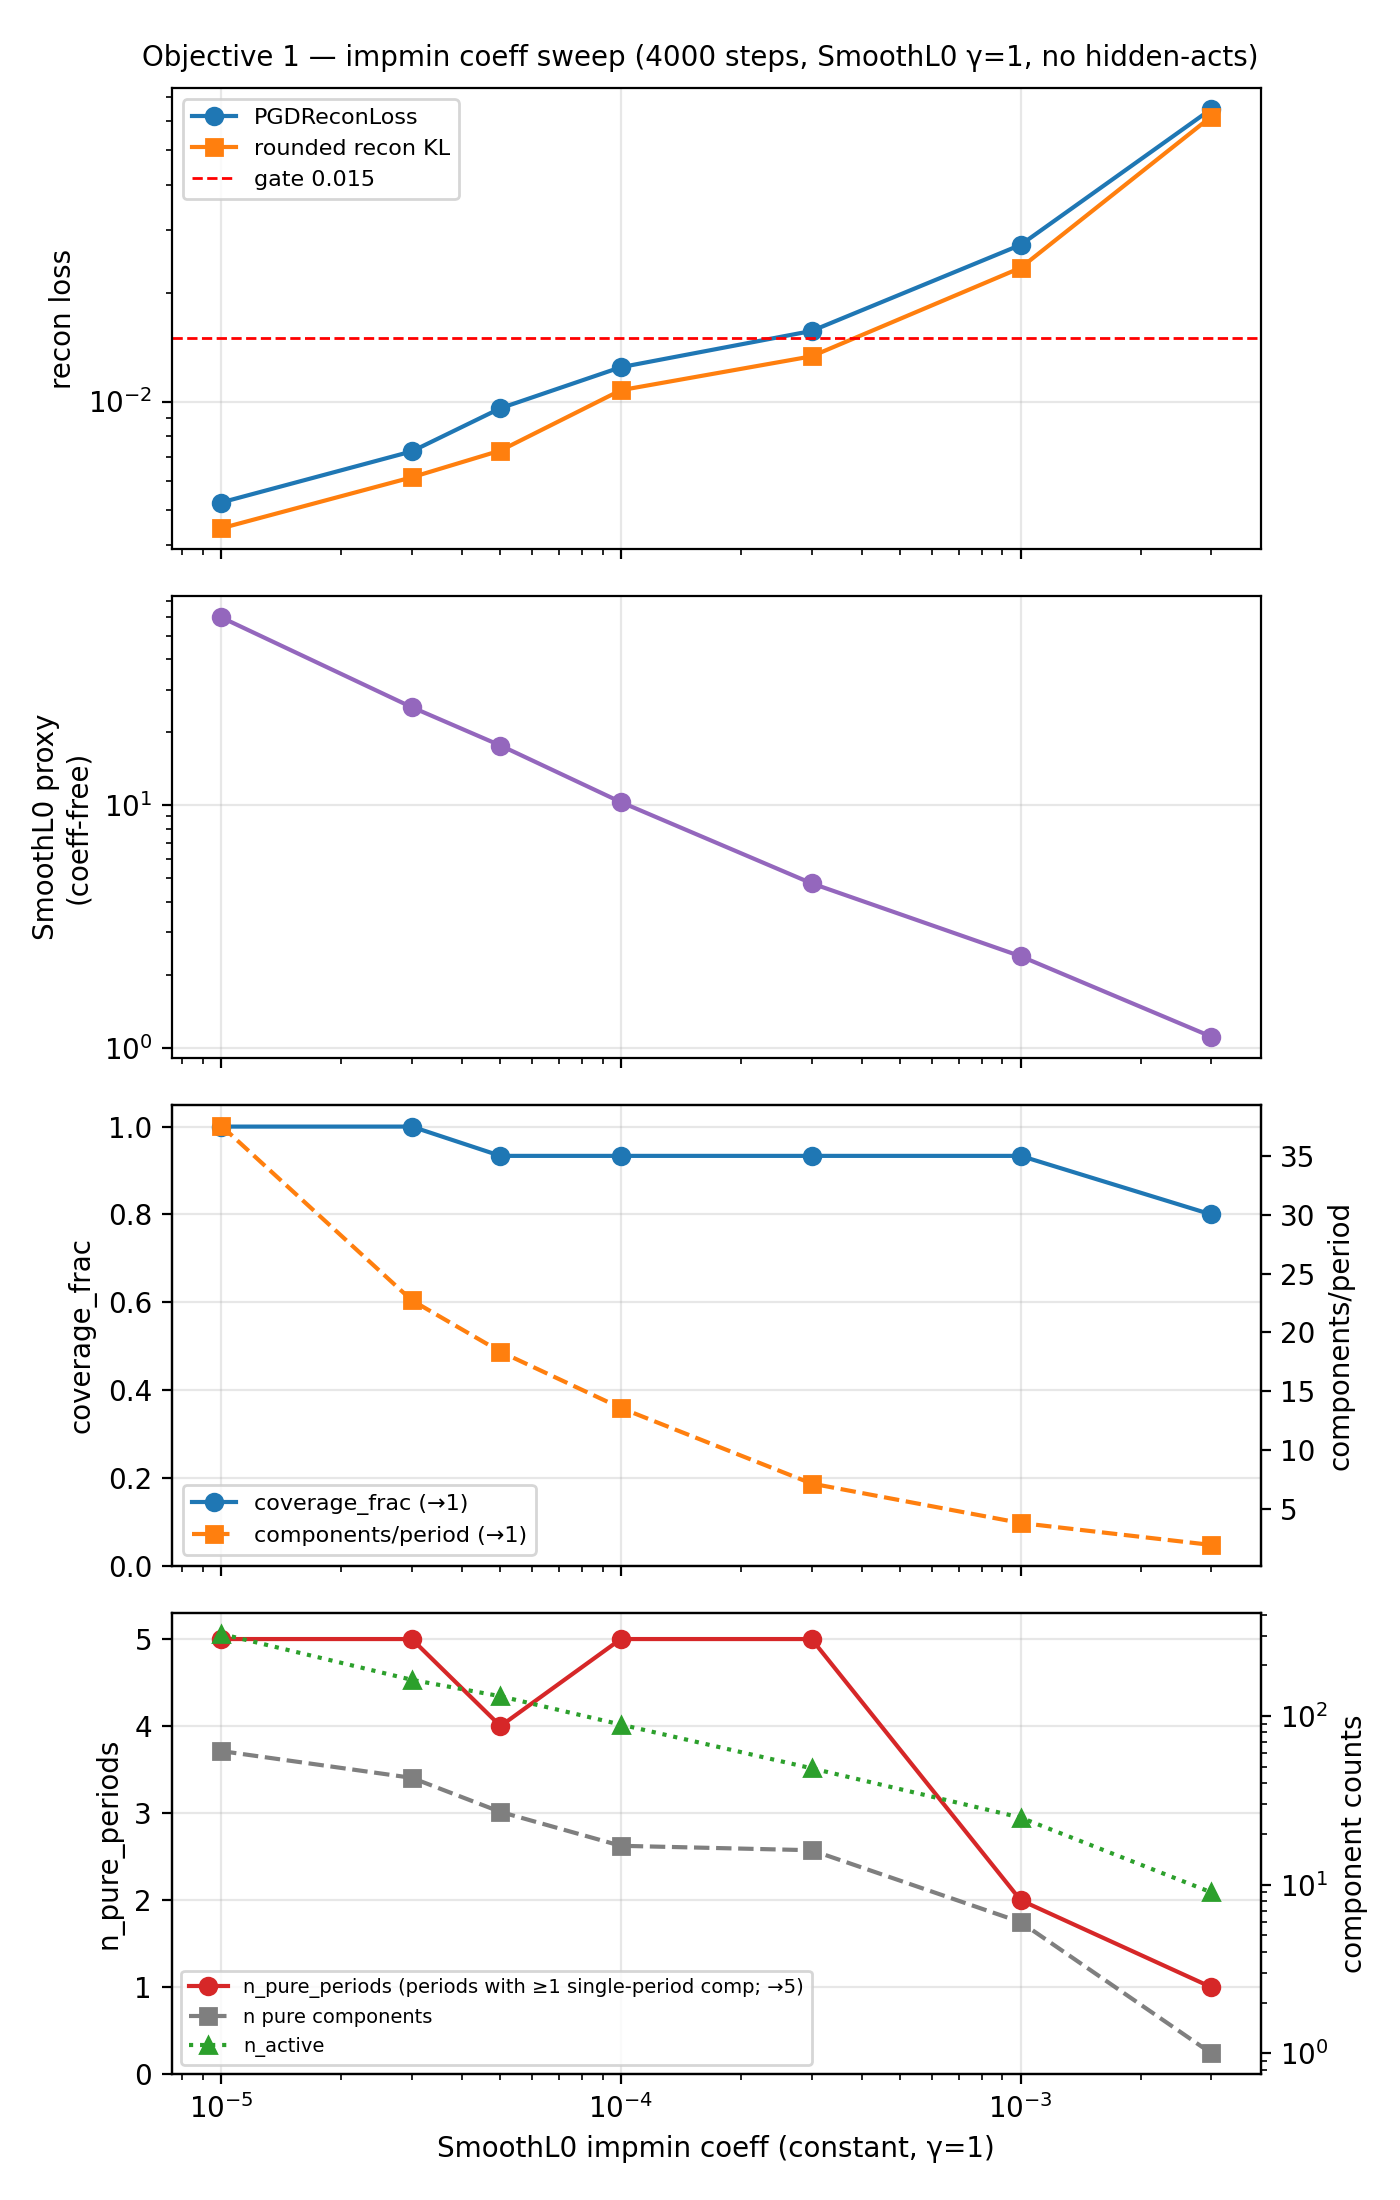
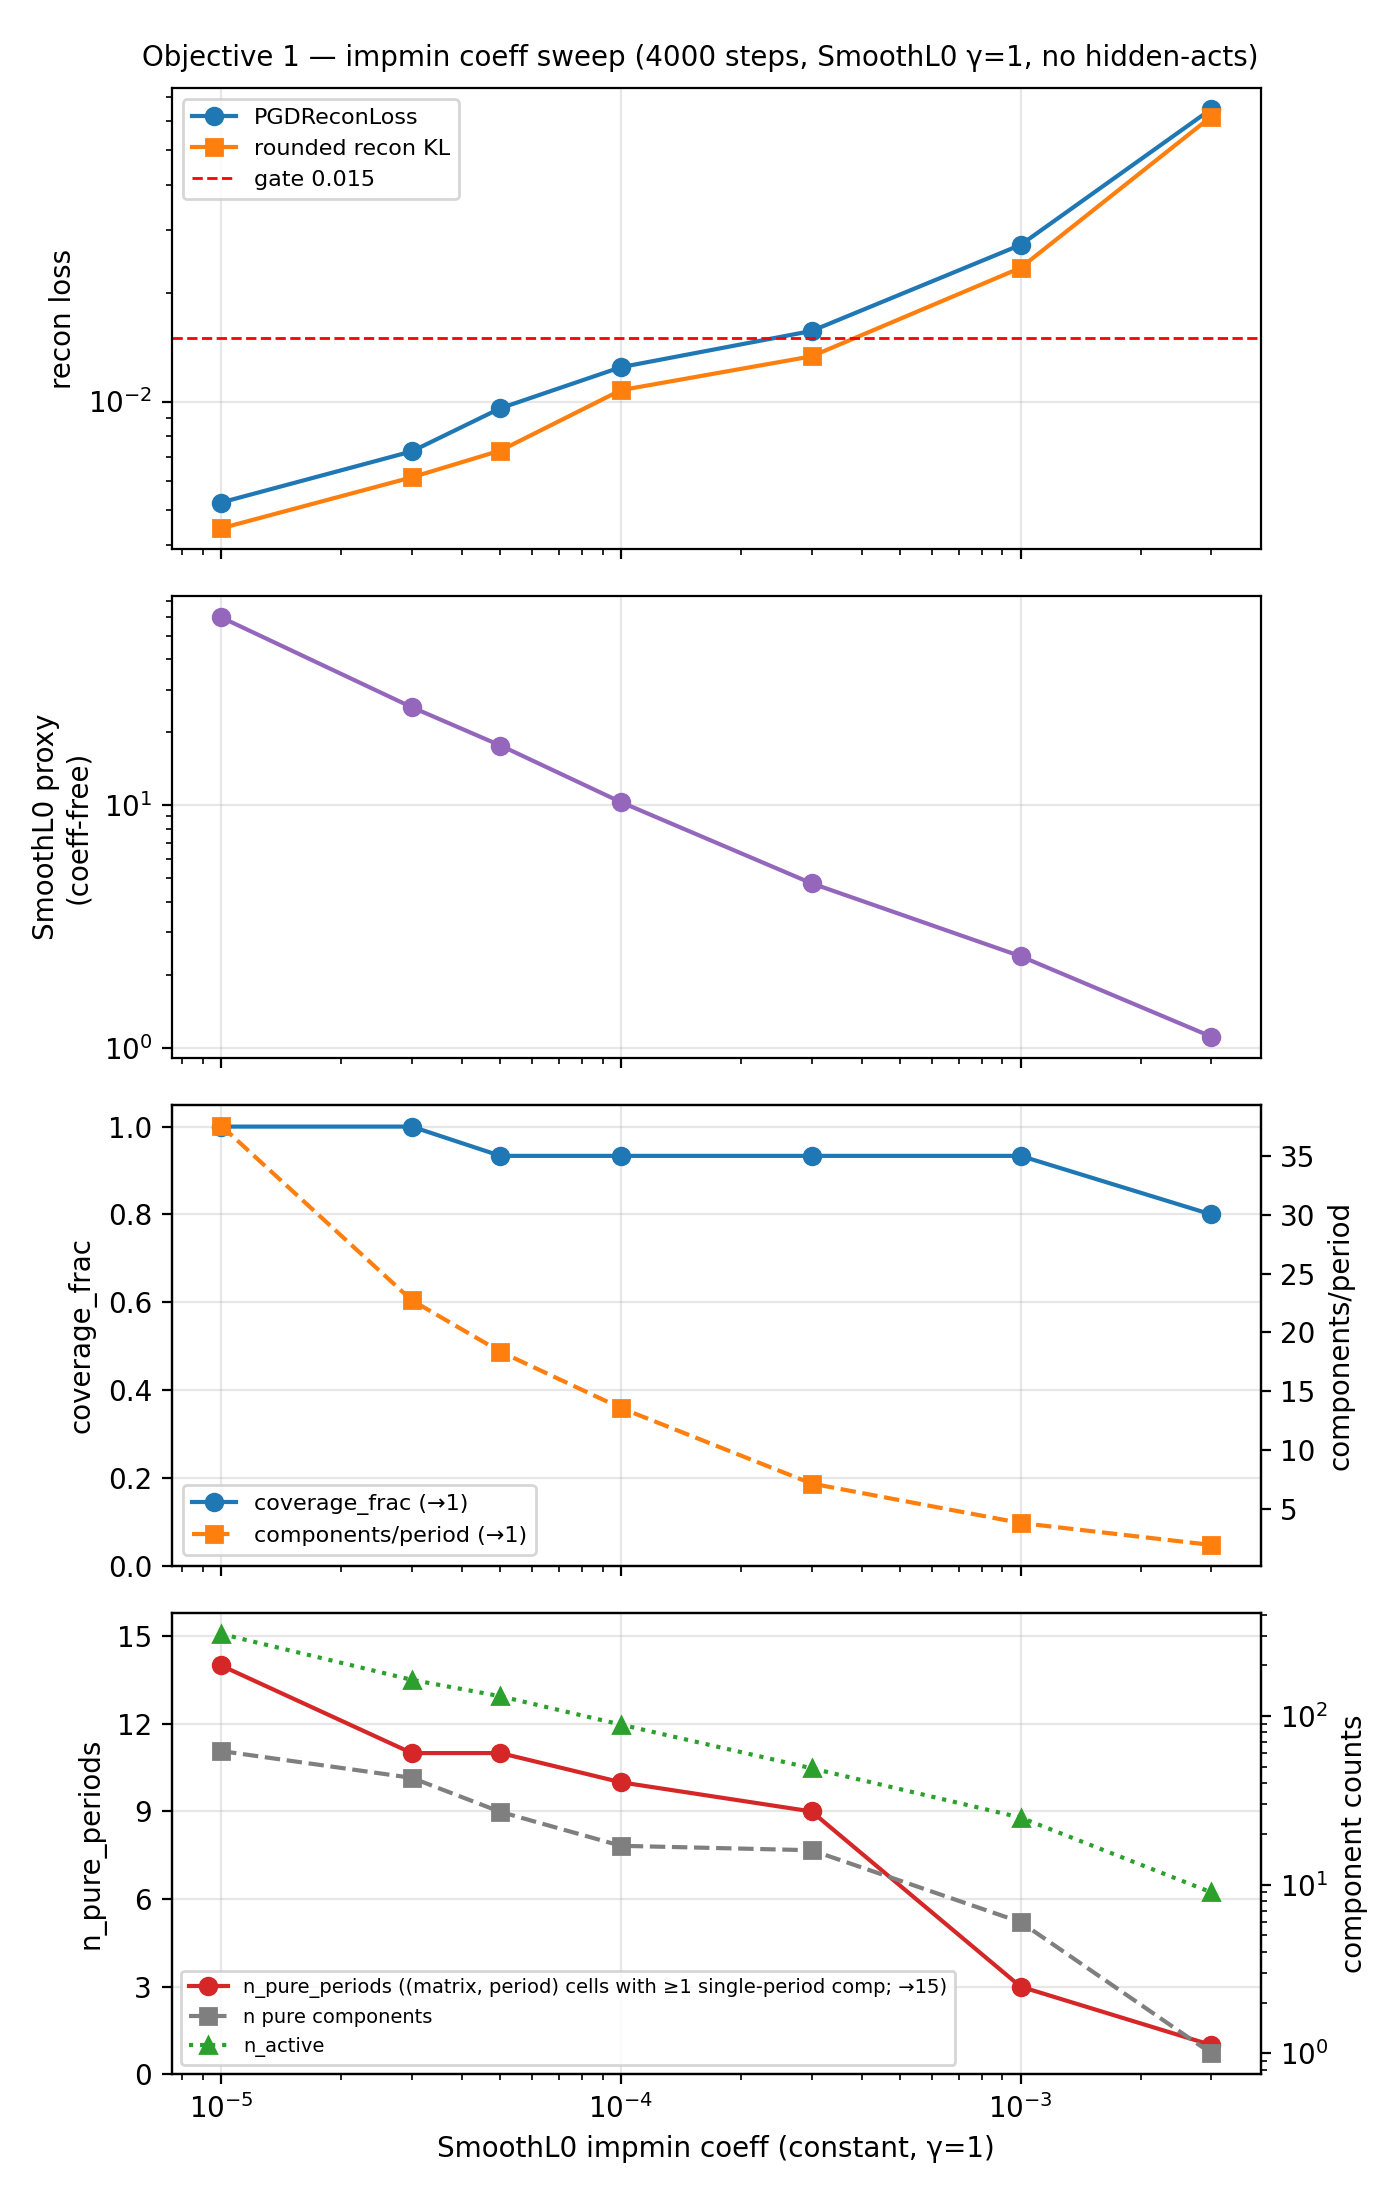
feat(eval): n_pure_periods counts (matrix, period) cells — max 15 for the MLP triple
Previously pooled across matrices (max 5), which flattened the gentle-dose
impmin runs to indistinguishable 5/5. Report tables and the obj1 sweep
figure recomputed under the per-matrix definition.

Claude-Session: https://claude.ai/code/session_01Q1RjvPNwD1ZD4rRrEbxv1y

diff --git a/param_decomp_lab/eval_metrics/period_separation.py b/param_decomp_lab/eval_metrics/period_separation.py
@@ -267,14 +267,17 @@ class PeriodSeparation(Metric[PeriodSeparationConfig]):
             result["components_per_period"] = presences / present_cells
         # A component is PURE-T when T is its only detected canonical period and it has
         # no T=4/25 extras (genuine additional periodicities); T=100 detections are
-        # ignored (trend-confounded). n_pure_periods = canonical periods owning at
-        # least one pure component — the headline separation score (target: 5).
+        # ignored (trend-confounded). n_pure_periods = (matrix, canonical period) cells
+        # owning at least one pure component — the headline separation score
+        # (target: n_matrices x 5, i.e. 15 for the MLP triple).
         pure_census: dict[int, int] = {}
+        pure_cells: set[tuple[str, int]] = set()
         for s_comp in scored:
             detected = {p for p, v in s_comp.snr.items() if v >= self.cfg.snr_thr and p != 100}
             if len(detected) == 1 and (period := next(iter(detected))) in CANONICAL_PERIODS:
                 pure_census[period] = pure_census.get(period, 0) + 1
-        result["n_pure_periods"] = float(len(pure_census))
+                pure_cells.add((s_comp.module, period))
+        result["n_pure_periods"] = float(len(pure_cells))
         for period in sorted(pure_census):
             result[f"pure_census/T{period}"] = float(pure_census[period])
         for module in matrices:

diff --git a/param_decomp_lab/scripts/validation/score_period_separation.py b/param_decomp_lab/scripts/validation/score_period_separation.py
@@ -84,6 +84,7 @@ def _summary_row(scored: "list[ComponentPeriods]", snr_thr: float) -> dict[str, 
     )
     census: dict[int, int] = {}
     pure_census: dict[int, int] = {}
+    pure_cells: set[tuple[str, int]] = set()
     for s in scored:
         detected_all = {p for p, v in s.snr.items() if v >= snr_thr}
         for period in detected_all:
@@ -91,7 +92,8 @@ def _summary_row(scored: "list[ComponentPeriods]", snr_thr: float) -> dict[str, 
         detected = detected_all - {100}
         if len(detected) == 1 and (period := next(iter(detected))) in CANONICAL_PERIODS:
             pure_census[period] = pure_census.get(period, 0) + 1
-    row["n_pure_periods"] = len(pure_census)
+            pure_cells.add((s.module, period))
+    row["n_pure_periods"] = len(pure_cells)
     row["census"] = " ".join(f"T{p}={c}" for p, c in sorted(census.items()))
     row["pure_census"] = " ".join(f"T{p}={c}" for p, c in sorted(pure_census.items()))
     return row

diff --git a/notes/period_separation/report.md b/notes/period_separation/report.md
@@ -52,19 +52,25 @@ Readings:
 Visual inspection of the panels showed `mixed_frac` mis-ranking the sweep: the top-CI
 components at gentle doses are heavily mixed plaids while high doses leave some very
 clean components. The revised headline metric (user-specified): **n_pure_periods** =
-number of canonical periods with ≥ 1 *single-period* component (pure = detected at
-exactly one non-trend period; T=100 ignored, T=4/25 extras disqualify). Recomputed over
-the sweep:
+number of (matrix × canonical period) cells with ≥ 1 *single-period* component (pure =
+detected at exactly one non-trend period; T=100 ignored, T=4/25 extras disqualify).
+Counted per matrix, so the maximum is 3 × 5 = 15 for the MLP triple. Recomputed over
+the sweep (pure census pooled across matrices):
 
-| run | PGD | n_active | n_pure_periods | pure census |
-|---|---|---|---|---|
-| impmin1e-5 | 0.0052 | 307 | **5** | T2=6 T5=15 T10=9 T20=7 T50=25 |
-| impmin3e-5 | 0.0073 | 164 | **5** | T2=2 T5=9 T10=10 T20=2 T50=20 |
-| impmin5e-5 | 0.0096 | 131 | 4 | no pure T20 |
-| impmin1e-4 | 0.0125 | 89 | **5** | T2=2 T5=5 T10=2 T20=1 T50=7 |
-| impmin3e-4 | 0.0157 ✗gate | 49 | **5** | T2=1 T5=6 T10=2 T20=1 T50=6 |
-| impmin1e-3 | 0.0272 ✗ | 25 | 2 | T5=4 T50=2 |
-| impmin3e-3 | 0.0650 ✗ | 9 | 1 | T50=1 |
+| run | PGD | n_active | n_pure_periods (/15) | n pure comps | pure census |
+|---|---|---|---|---|---|
+| impmin1e-5 | 0.0052 | 307 | **14** | 62 | T2=6 T5=15 T10=9 T20=7 T50=25 |
+| impmin3e-5 | 0.0073 | 164 | 11 | 43 | T2=2 T5=9 T10=10 T20=2 T50=20 |
+| impmin5e-5 | 0.0096 | 131 | 11 | 27 | T2=3 T5=4 T10=7 T50=13 — no pure T20 |
+| impmin1e-4 | 0.0125 | 89 | 10 | 17 | T2=2 T5=5 T10=2 T20=1 T50=7 |
+| impmin3e-4 | 0.0157 ✗gate | 49 | 9 | 16 | T2=1 T5=6 T10=2 T20=1 T50=6 |
+| impmin1e-3 | 0.0272 ✗ | 25 | 3 | 6 | T5=4 T50=2 |
+| impmin3e-3 | 0.0650 ✗ | 9 | 1 | 1 | T50=1 |
+
+Missing cells at the gentle end: `impmin1e-5` misses only up_proj-T2 (14/15);
+`impmin3e-5` additionally loses gate_proj-{T5, T20} and up_proj-{T2, T20}. Under the
+per-matrix definition the metric is monotone in the coeff — gentler is purer — where
+the pooled version had flattened the top four runs to 5/5.
 
 Reconciliation of panel vs metric: the panels show the top-20 by mean CI — at gentle
 doses the *dominant* components are mixed while dozens of pure components sit at mean CI
@@ -74,11 +80,12 @@ entirely. Margin check: the gentle-dose pure components are mostly genuine (own-
 30–260 with other classes ≤ 10), except pure-T20 which is threshold-marginal
 (max-other-SNR 16–19).
 
-**Winner: `impmin3e-5` (coeff = 3e-5)** — the largest dose satisfying every criterion
-simultaneously: PGD 0.0073 ≪ 0.015 gate, full per-matrix coverage, and n_pure_periods
-5/5. `impmin1e-4` is the leaner alternative (89 active, still 5/5 pure, gate-passing at
-0.0125) if the up_proj T=2 coverage loss is acceptable. Base coeff for Objectives 2–4:
-**3e-5**.
+**Winner: `impmin3e-5` (coeff = 3e-5)** — chosen under the pooled metric as the largest
+dose satisfying every criterion simultaneously (PGD 0.0073 ≪ 0.015 gate, full per-matrix
+coverage, pooled n_pure 5/5); it is the base coeff for the in-flight Objectives 2–3
+runs. Note the per-matrix revision reranks the top: `impmin1e-5` now leads (14/15 vs
+11/15) with better recon (0.0052) at the cost of 2× the active components (307 vs 164)
+and much higher redundancy (37.6 vs 22.7 comps/period).
 
 ## Objective 2 — initialization: kaiming wins on mixing
 
@@ -87,17 +94,19 @@ removed SmoothL0, so the net feature was applied surgically). Comparison at the 
 coeff 3e-5 — `addsub-L18-08-impmin3e-5` doubles as the kaiming arm (identical config,
 default init); `addsub-L18-08-initcoupled` is the same + `weight_init: coupled`:
 
-| run (init) | PGD | rounded | n_active | n_pure_periods | pure census |
+| run (init) | PGD | rounded | n_active | n_pure_periods (/15) | pure census |
 |---|---|---|---|---|---|
-| impmin3e-5 (kaiming) | 0.00727 | 0.00616 | 164 | **5** | T2=2 T5=9 T10=10 T20=2 T50=20 |
-| initcoupled (coupled) | **0.00564** | **0.00467** | 113 | 4 | T2=2 T10=2 T20=1 T50=5 — no pure T5 |
+| impmin3e-5 (kaiming) | 0.00727 | 0.00616 | 164 | **11** | T2=2 T5=9 T10=10 T20=2 T50=20 |
+| initcoupled (coupled) | **0.00564** | **0.00467** | 113 | 5 | T2=2 T10=2 T20=1 T50=5 — no pure T5 |
 
 Coupled init reconstructs better (−22% PGD) with fewer active components (113 vs 164),
 but **loses period-5 purity entirely**: its best T5 components all carry exactly one
 strong extra period (SNR 28–147) — genuine two-period mixes, not threshold near-misses.
-On the roadmap's criterion for this objective (effect on period mixing):
-**kaiming picked** for the rest of the series (5/5 pure periods). Coupled remains
-attractive if later objectives recover its lost pure period at its better recon.
+The per-matrix metric widens the gap further (11 vs 5 cells): coupled's 10 pure
+components sit only in down_proj (T2/T10/T50) and up_proj (T20/T50) — **gate_proj has
+zero pure components**. On the roadmap's criterion for this objective (effect on period
+mixing): **kaiming picked** for the rest of the series. Coupled remains attractive if
+later objectives recover its lost pure cells at its better recon.
 
 ## Objective 3 — fused hidden-acts recon loss — pending
 
